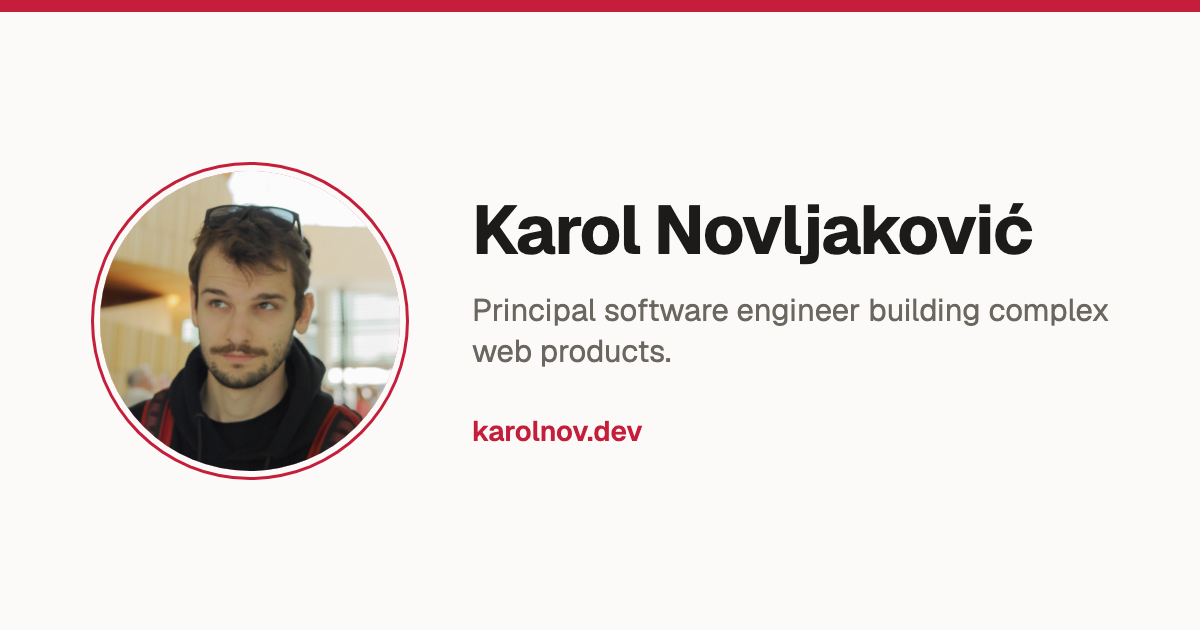
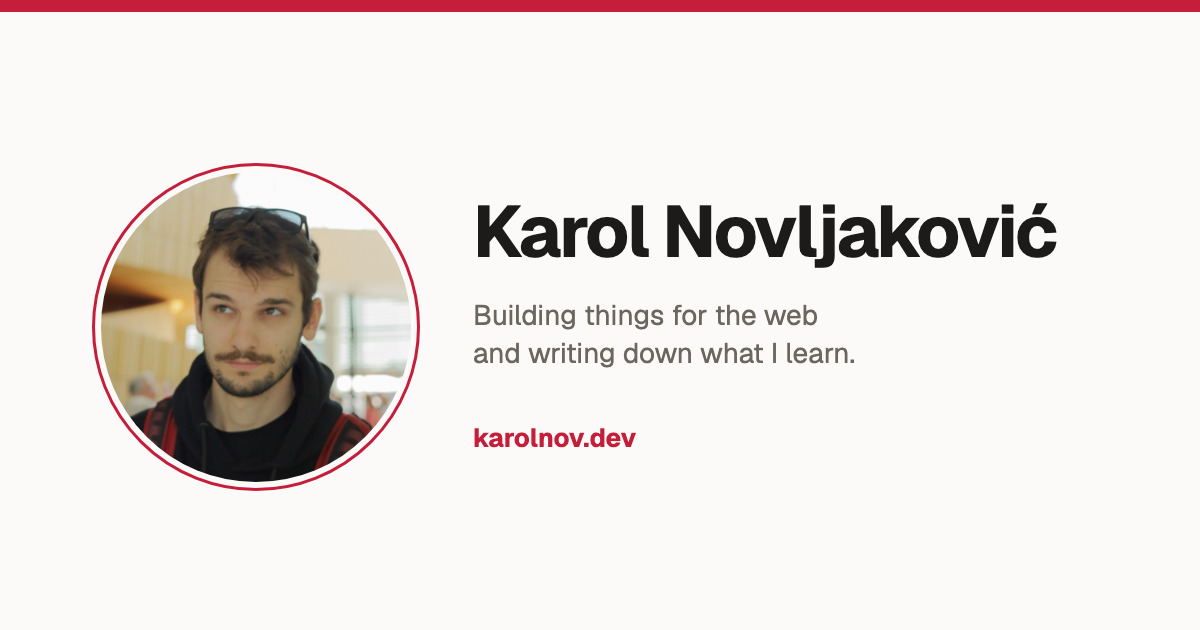
Soften the site tagline to match the new X header
"Principal software engineer building complex web products" read like
a title card. Swap it for "Building things for the web and writing down
what I learn." in the site description, README intro and share card.

diff --git a/src/consts.ts b/src/consts.ts
@@ -1,5 +1,5 @@
 export const SITE_TITLE = 'Karol Novljaković';
-export const SITE_DESCRIPTION = 'Principal software engineer building complex web products.';
+export const SITE_DESCRIPTION = 'Building things for the web and writing down what I learn.';
 export const NAV = [
   { href: '/', label: 'Home' },
   { href: '/about/', label: 'About' },

diff --git a/README.md b/README.md
@@ -2,8 +2,8 @@
 
 [![karolnov.dev](public/og.png)](https://karolnov.dev)
 
-Source for **[karolnov.dev](https://karolnov.dev)**, my personal site and blog. I'm a principal software engineer
-building complex web products, and I write here about sync engines, collaboration and working with AI.
+Source for **[karolnov.dev](https://karolnov.dev)**, my personal site and blog. I build things for the web
+and write here about what I learn: sync engines, collaboration and working with AI.
 
 It's built with [Astro](https://astro.build) and runs as a single [Cloudflare Worker](https://developers.cloudflare.com/workers/):
 pages are prerendered and served as static assets, and the few routes that need a server run on demand at the edge.
